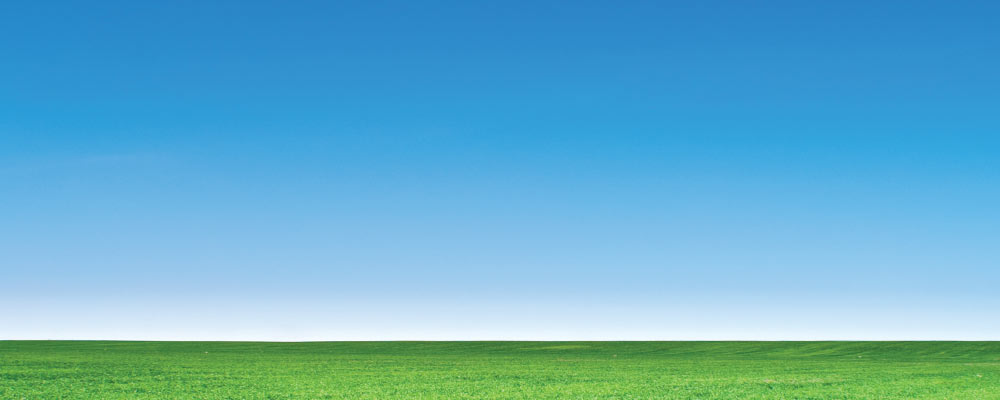
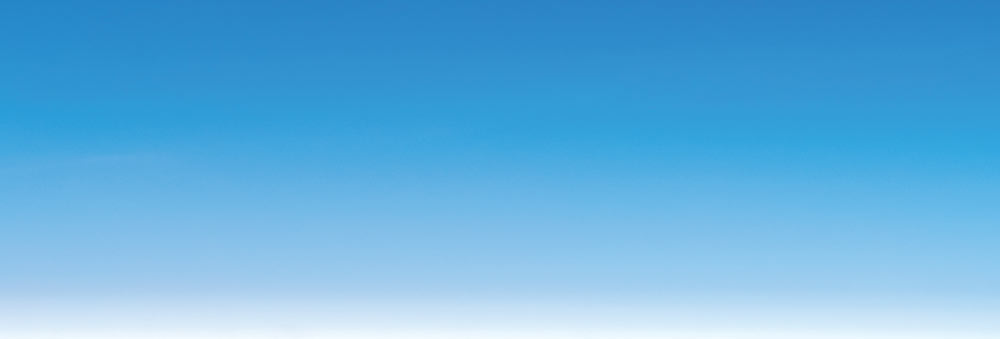
Adjust styles, copy, and button link for microsite.

diff --git a/css/main.css b/css/main.css
@@ -1,1 +1,1 @@
[2 lines of base64/hex data omitted]

diff --git a/css/src/main.scss b/css/src/main.scss
@@ -4,8 +4,9 @@
 $yellow: #F3C25B;
 $teal: #83BAB2;
 $green: #8B9E74;
-$red: #831528;
+$red: #c22032;
 $grey: #414042;
+$navy: #1E376C;
 
 
 @import "reset";
@@ -34,20 +35,30 @@ $grey: #414042;
 // header styles
 header {
 	position: relative;
-	background: url(../img/bg-header.jpg) center center no-repeat;
+	background: url(../img/bg-head.jpg) bottom center no-repeat;
 	background-size: cover;
-	padding: 25px 0;
-	border-bottom: 25px solid $red;
+	padding-bottom: 5px;
+}
+
+
+
+.subhead {
+	background: url(../img/bg-subhead.jpg) center center no-repeat;
+	background-size: cover;
+	padding: 4px 0 0;
+	border-bottom: 20px solid $navy;
 
 	@include respond-to( 768px ) {
-		padding: 50px 0;
+		padding: 14px 0 10px;
+		border-bottom: 30px solid $navy;
 	}
 }
 
 
+
 // wrap div
 .wrap {
-	max-width: 1100px;
+	max-width: 1000px;
 	margin: 0 auto;
 	position: relative;
 	@include clearfix;
@@ -55,139 +66,66 @@ header {
 
 
 
-// padding div that'll resize for larger screens.
-.pad {
-	padding: 30px 20px;
+.main-content {
+	padding: 20px;
+	font-size: 20px;
+	line-height: 28px;
 
-	@include respond-to( 768px ) { padding: 30px 50px; }
-	@include respond-to( 1025px ) { padding: 40px 70px; }
-}
-
-
-
-// tool styles
-.tool {
-	padding: 0;
-	text-align: center;
-	
-	@include respond-to( 768px ) {
-		padding: 20px 40px;
+	h2, p {
+		padding: 10px 0;
 	}
 
-	.calculator {
-		background: url(../img/bg-box.png);
-		color: white;
-		padding: 20px 15px 30px;
-		margin-top: 30px;
-		@include font-title;
-
-		button, input[type=submit], .btn {
-			width: 100%;
-			margin: 0 auto;
-		}
-		
-		@include respond-to( 768px ) { 
-			padding: 30px 20px 40px; 
-			border-radius: 20px;
-			font-size: 1.2em;
-		}
-
-		@include respond-to( 1024px ) {
-			padding: 40px;
-		}
-	}
-
-	.half.right.first {
-		padding: 30px 10px;
-
-		@include respond-to( 1024px ) {
-			padding: 30px;
-		}
-	}
-}
-
-
-
-// results styles
-.results {
-	display: none;
-	text-align: center;
-	@extend .pad;
-
-	// large title
 	h2 {
-		@include font;
+		font-size: 20px;
+		line-height: 28px;
+		@include font-bold;
 		color: $red;
-		font-size: 1.8em;
-
-		@include respond-to( 768px ) {
-			font-size: 3em;
-			padding: 10px 20px;
-		}
 	}
 
-	h3 {
-		@include font;
-		font-size: 1.5em;
+	@include respond-to( 768px ) {
+		padding: 40px 120px;
+		font-size: 28px;
+		line-height: 40px;
 
-		@include respond-to( 768px ) {
-			font-size: 2em;
-			padding: 10px 20px;
+		h2 {
+			font-size: 28px;
+			line-height: 40px;
+		}
+
+		h2, p {
+			padding: 20px 0;
 		}
 	}
+}
 
-	p {
-		@include font-title;
-		font-size: 1.5em;
-		line-height: 1.5em;
 
-		@include respond-to( 768px ) {
-			font-size: 2em;
-			padding: 50px 20px 10px;
-		}
-	}
+
+.button {
+	background: $red;
+	color: white;
+	padding: 20px;
+	display: inline-block;
+	border-radius: 20px;
+}
+
+
+
+.footer-bar {
+	background: url(../img/border-footer.png) center center no-repeat;
+	background-size: cover;
+	height: 45px;
+	border-top: 4px solid lighten( $grey, 20% );
+	box-shadow: 0 7px 7px rgba( $grey, .4 );
 }
 
 
 
 // footer styles
-.footer-bar {
-	border-top: 10px solid $grey;
+footer {
 	color: $grey;
 	padding: 30px 20px;
 	text-align: center;
-
-	h2, h4 {
-		&, a {
-			color: $red;
-		}
-
-		@include font-title;
-	}
-
-	h2 {
-		font-size: 3em;
-		@include respond-to( 768px ) { font-size: 3.5em; }
-	}
-
-	h4 {
-		font-size: 17px;
-		@include respond-to( 800px ) { font-size: 26px; }
-	}
-
-	.sixty, .fourty {
-		text-align: center;
-	}
-
-	@include respond-to( 768px ) {
-		margin-top: 30px;
-	}
-
-	.half.separator {
-		@include respond-to( 768px ) {
-			width: 46.5%;
-		}
-	}
+	@include clearfix;
 }
 
 
@@ -196,11 +134,6 @@ header {
 	padding: 20px 0 0;
 	font-size: .85em;
 	line-height: 1.3em;
-	text-align: left;
-
-	img {
-		float: right;
-		margin: 0 0 15px 15px;
-	}
+	text-align: right;
 }
 

diff --git a/index.html b/index.html
@@ -2,7 +2,7 @@
 <html lang="en-US" class="no-js">
 <head>
 	<meta charset="utf-8">
-	<title>Auto Loan Boss - Harvest FCU</title>
+	<title>Lower Your Loan Payments Today - Peoples Advantage FCU</title>
 
 	<meta http-equiv="X-UA-Compatible" content="IE=edge" />
 	<meta name="viewport" content="width=device-width, initial-scale=1">
@@ -17,58 +17,39 @@
 				<img src="img/header.png" class="header">
 			</div>
 		</header>
-		
-		<div class="wrap">
-			<div class="tool group">
-					
-				<div class="half right first">
-					<img src="img/content.png">
-				</div>
-				<div class="half right">
-					<div class="calculator box-bg">
-						<input type="hidden" class="rate_compare" value="1.74">
-						<p><label>Auto Loan Balance</label>
-							<input type="text" class="amount" placeholder="7,500"></p>
-						<p><label>Auto Loan Term (Months)</label>
-							<input type="text" class="term" placeholder="36m, 60m"></p>
-						<p><label>Your Current Rate</label>
-							<input type="text" class="rate" placeholder="7%"></p>
-						<p><button class="accrue-calculate">Calculate my Savings</button></p>
-					</div>
-				</div>
 
-			</div>
-
-			<div class="results">
-
-				<h2>Congratulations!</h2>
-				<h3>You could save up to $<span class="result-amount"></span> in interest!</h3>
-				<p>Want to BE THE BOSS OF your loan payment?<br>
-					Give us a call at 740.522.5277!</p>
-				<div class="text-center">
-					<a class="button go-back">&laquo; go back</a>
-				</div>
-
+		<div class="subhead">
+			<div class="wrap">
+				<img src="img/sub-header.png" class="header">
 			</div>
 		</div>
+		
+		<div class="main-content wrap text-center">
 
-		<div class="footer-bar group">
+			<p>Do your loan payments keep you down? Would you like to pay less each month? Have credit issues or loan denials kept you from applying in the past?</p>
+			<h2>We can help!</h2>
+			<p><a href="https://www5.homecu.net/fi/pafcu/loan-application.html"><img src="img/button-apply.png"></a></p>
+
+		</div>
+
+		<div class="footer-bar">&nbsp;</div>
+
+		<footer>
 			<div class="wrap">
 
 				<div class="half separator">
 					<a href="http://harvestfcu.org/"><img src="img/logo.png"></a>
 				</div>
 				<div class="half">
-					<h2>740.522.5277</h2>
+					<img src="img/footer-phone.png">
 				</div>
 
 				<div class="fine-print group">
-					<img src="img/ncua.png">
-					* For all offers: Offer does not apply to loans currently financed with Harvest Federal Credit Union. Members may choose one of the offers above.  Offer may end at any time.  For complete details, contact the credit union.  Credit and other restrictions apply.  1. Loans paid off within 6 months must repay the $100 cash incentive. Minimum loan balance is $5,000.  2. Interest will accrue during the 90-day period. 3. Harvest FCU Vehicle Loan Program is designed to save members money. However, the rate offered to each member will not go below the member’s qualified rate or floor rate of 1.75% Annual Percentage Rate.This credit union is insured by the National Credit Union Administration. 
+					Federally insured by the National Credit Union Administration. 
 				</div>
 
 			</div>
-		</div>
+		</footer>
 
 	</main>
 
